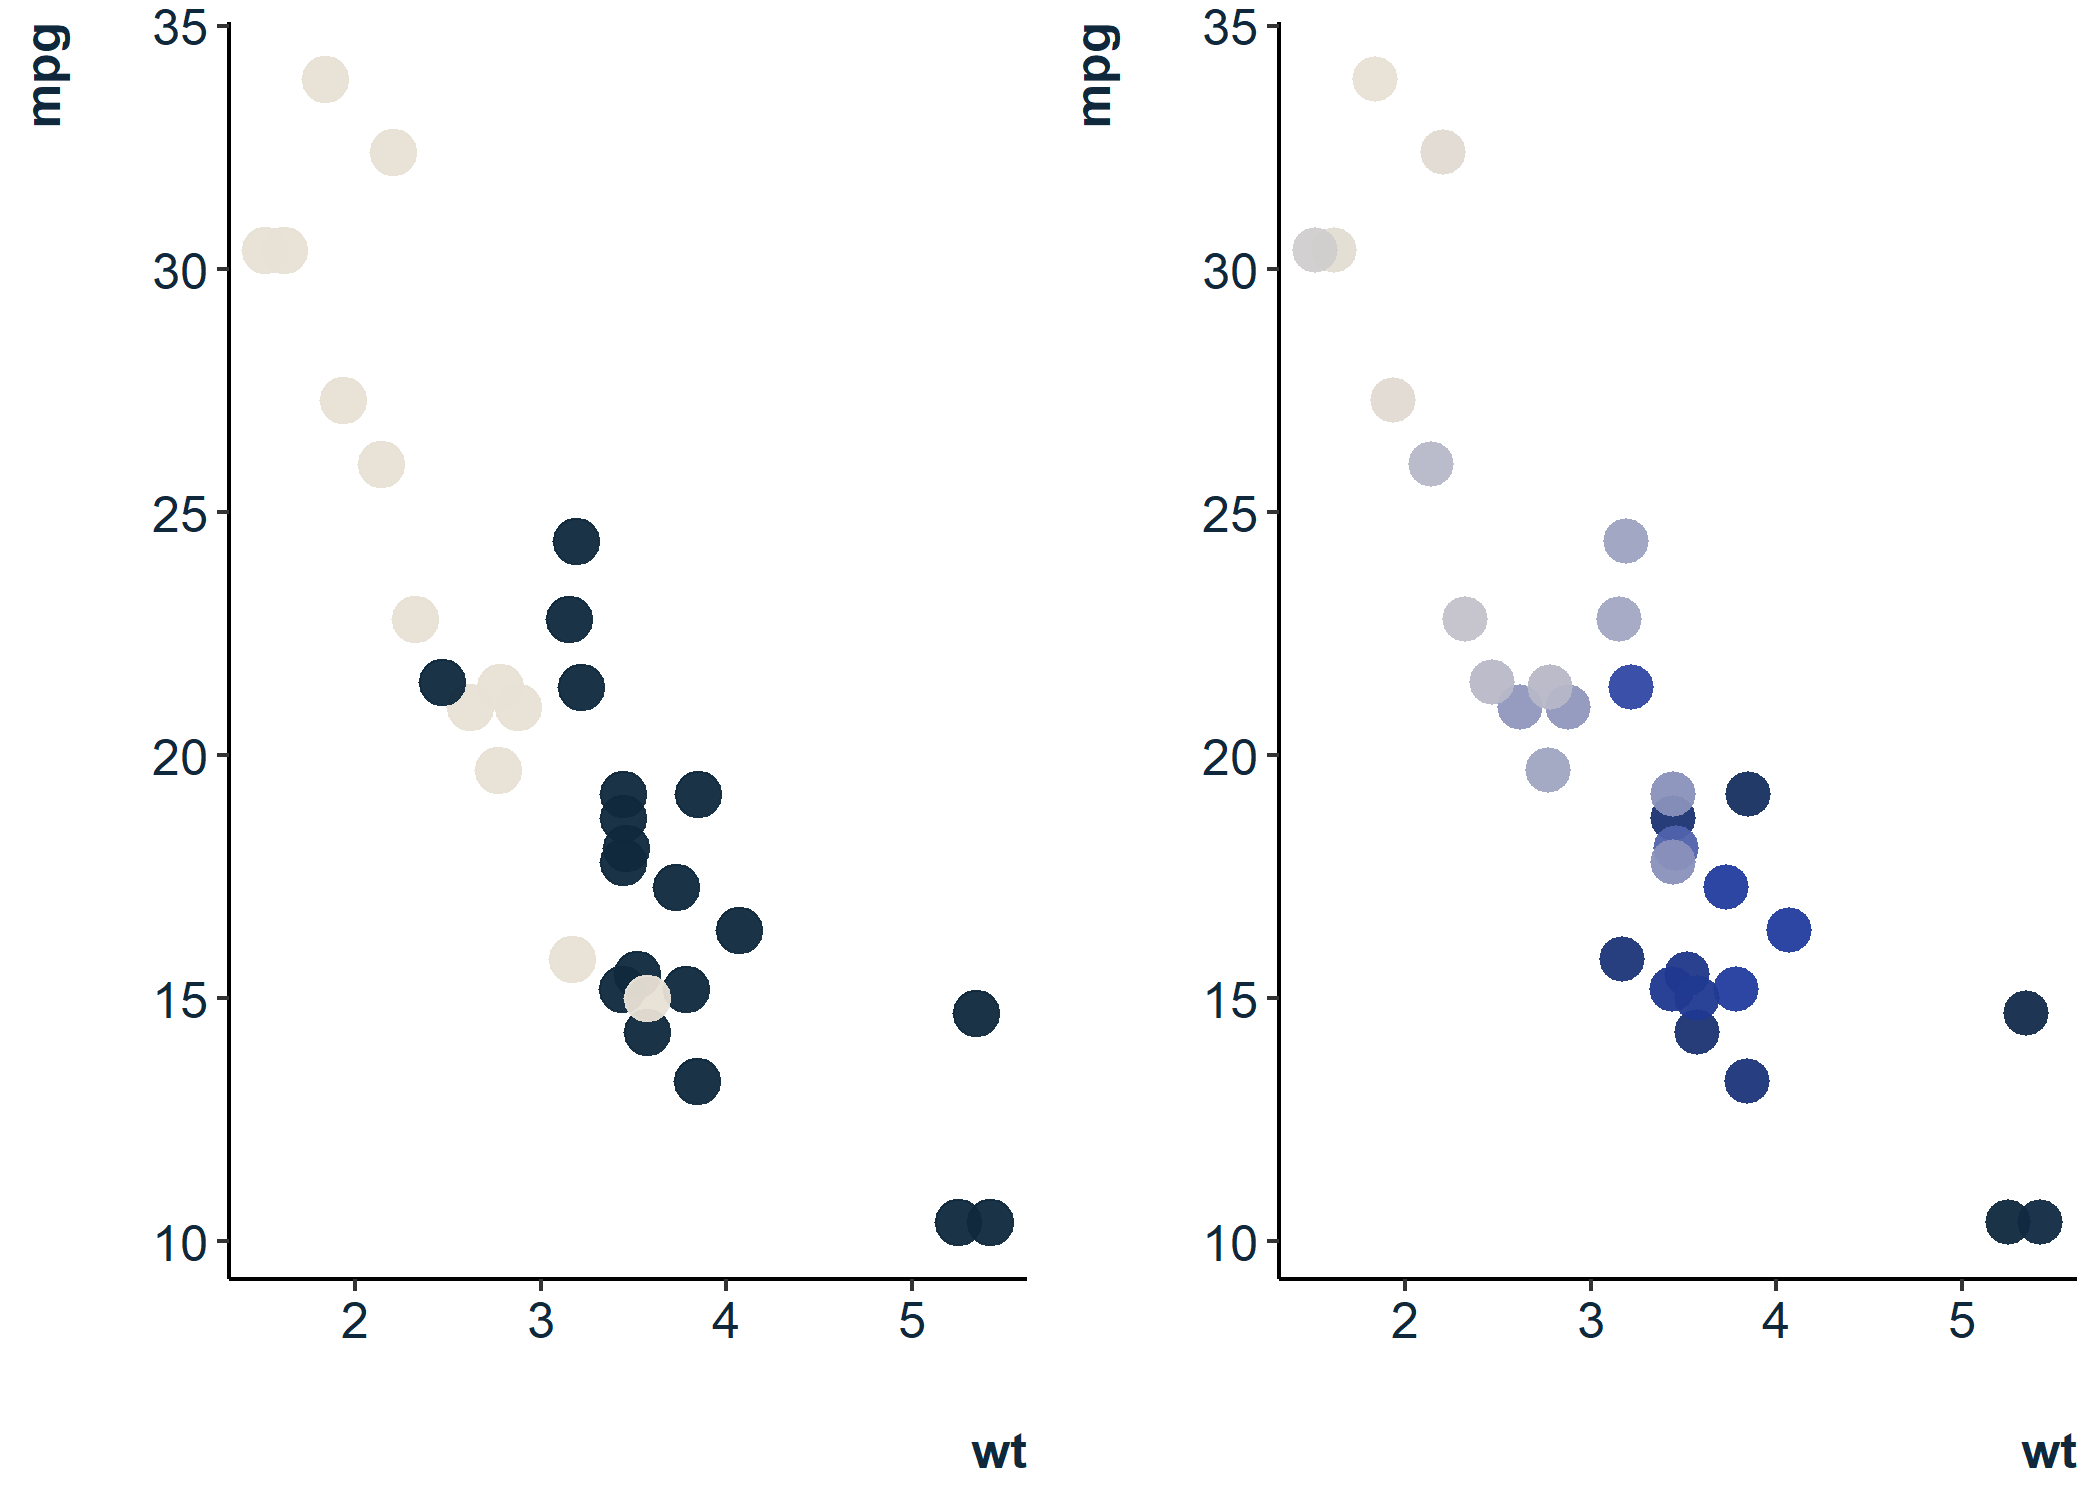
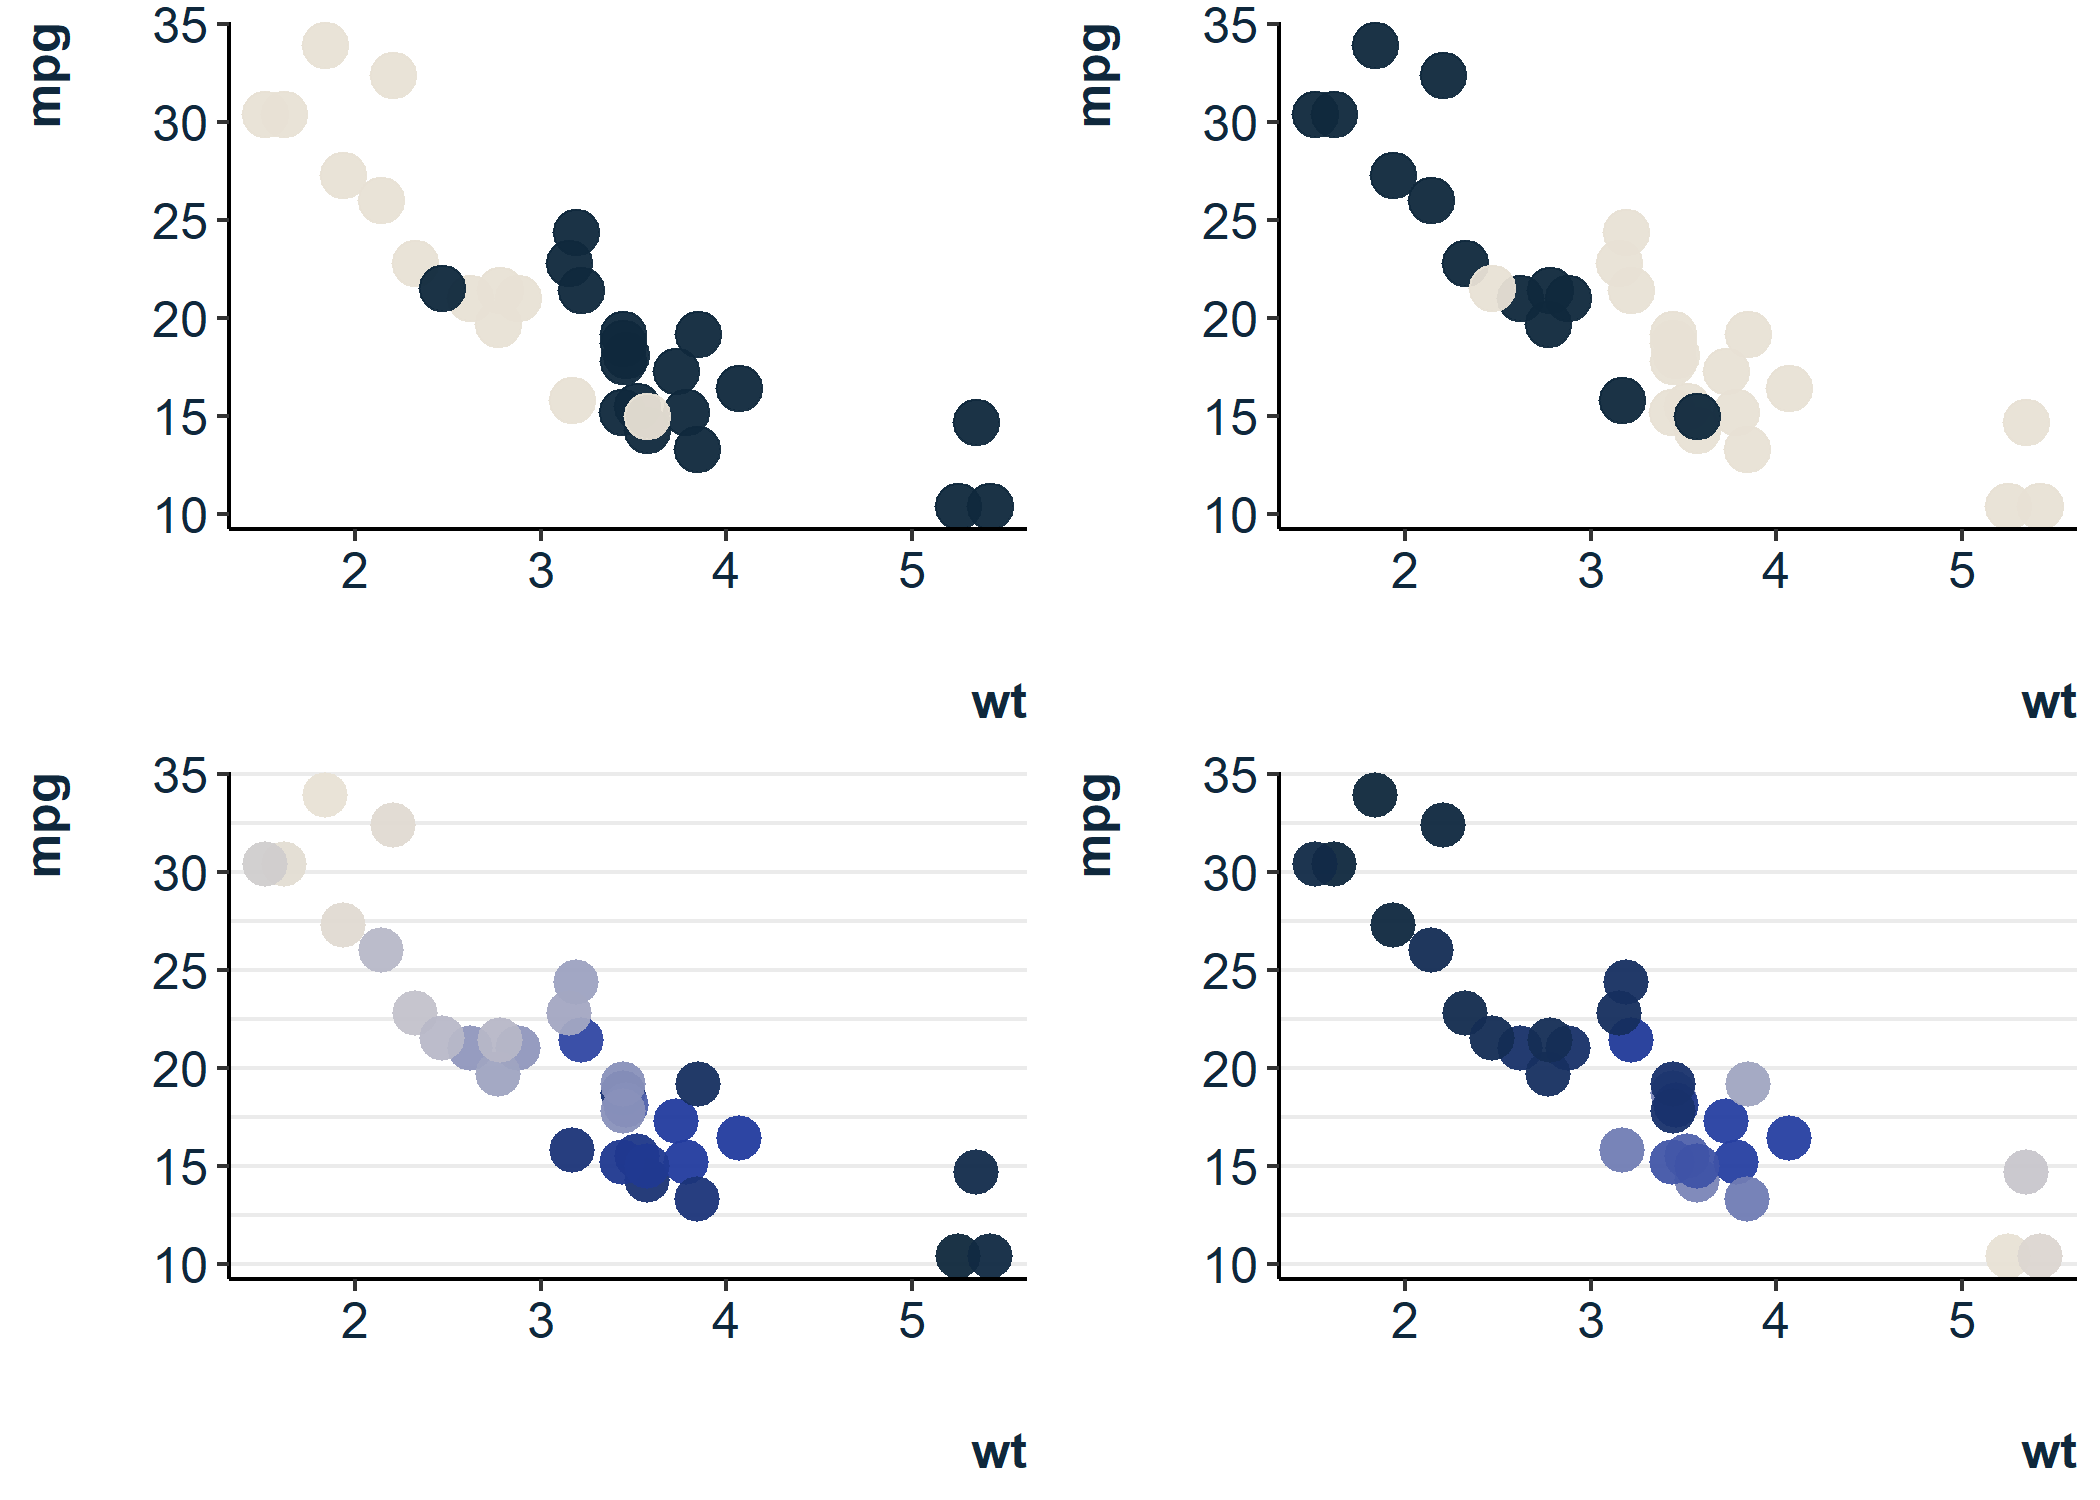
update README

diff --git a/README.md b/README.md
@@ -7,13 +7,19 @@
 
 <!-- badges: end -->
 
-The goal of repinion is to provide Epinion employees with `ggplot2`
+The goal of `repinion` is to provide Epinion employees with `ggplot2`
 functionality that quickly and easily makes your graphs compliant with
 the Corporate Visual Identity (CVI).
 
 ## Quick example
 
-This is a basic example which shows you how to solve a common problem:
+`repinion` has two main functionalities:
+
+1.  a tailor-made `ggplot2` theme
+2.  a set of custom-made color palettes for both discrete and continuous
+    variables
+
+A quick example demonstrates the basic functionality:
 
 ``` r
 library(repinion)
@@ -28,7 +34,7 @@ ggplot(mtcars, aes(x = wt,
   color_epi_d()
 ```
 
-<img src="man/figures/README-example-1.png" width="75%" style="display: block; margin: auto;" />
+<img src="man/figures/README-example-1.png" width="85%" style="display: block; margin: auto;" />
 
 ## Installation
 
@@ -41,7 +47,7 @@ library(devtools)
 devtools::install_github("jvieroe/repinion")
 ```
 
-## An **Epinion** `ggplot()` theme
+## **Epinion** `ggplot()` theme(s)
 
 Use `epitheme_*()` to quickly apply a tailormode `ggplot` theme to your
 graphs and data visualizations. This makes them compliant with the
@@ -69,17 +75,22 @@ ggplot(mtcars, aes(x = wt,
                    gridlines = "both")
 ```
 
-<img src="man/figures/README-unnamed-chunk-2-1.png" width="75%" style="display: block; margin: auto;" />
+<img src="man/figures/README-unnamed-chunk-2-1.png" width="85%" style="display: block; margin: auto;" />
 
 Evidently, `epitheme_classic()` only impacts `ggplot2::theme()` elements
 and not the aesthetics of your actual plot. We can override `theme()`
 elements inherent to `repinion::epitheme_classic()` by specifying this
-**afterwards** in `theme(...)`.
+in `theme(...)` **afterwards**.
 
 `epitheme_classic()` only impacts `ggplot2::theme()` elements and not
 the aesthetics of your actual plot.
 
-## Executing the **Epinion** color palette
+## The **Epinion** color palette
+
+You can apply custom-made Epinion color palettes with `repinion` through
+different (more or less verbose) approaches
+
+### Using the **Epinion** color palette
 
 `repinion` provides easy access to the colors from the Epinion CVI:
 
@@ -98,82 +109,89 @@ getcols_epi("Epinion DarkBlue")
 #>        "#0F283C"
 ```
 
-We can use these to manually change our colors, either using the HEX
-codes provided by `getcols_epi()` or by pasting the names into the
-`base::getElement()` function:
+We can use these to manually change our colors by either (1) using the
+HEX codes provided by `getcols_epi()` directly or (2) by pasting the
+names into the `base::getElement()` function:
 
 ``` r
 library(gridExtra)
 
-p1 <-
-  ggplot(mtcars, aes(x = wt,
-                   y = mpg,
-                   color = factor(am))) +
-  geom_point(size = 5,
-             alpha = .95) +
+# use the HEX codes directly
+p1 <- ggplot(mtcars, aes(x = wt, y = mpg, color = factor(am))) +
+  geom_point(size = 5, alpha = .95) +
   epitheme_classic(legend = F) +
-  scale_color_manual(values = c("#0F283C",
-                                "#E8E1D5"))
+  scale_color_manual(values = c("#0F283C", "#E8E1D5"))
 
-p2 <-
-  ggplot(mtcars, aes(x = wt,
-                   y = mpg,
-                   color = factor(am))) +
-  geom_point(size = 5,
-             alpha = .95) +
+# use the color names
+p2 <- ggplot(mtcars, aes(x = wt, y = mpg, color = factor(am))) +
+  geom_point(size = 5, alpha = .95) +
   epitheme_classic(legend = F) +
   scale_color_manual(values = c(getElement(getcols_epi(), "Epinion DarkBlue"),
                                 getElement(getcols_epi(), "Epinion WarmSand")))
 
-
-grid.arrange(
-  p1, p2,
-  ncol = 2
-  ) ; rm(p1, p2)
+grid.arrange(p1, p2, ncol = 2) ; rm(p1, p2)
 ```
 
-<img src="man/figures/README-unnamed-chunk-4-1.png" width="75%" style="display: block; margin: auto;" />
+<img src="man/figures/README-unnamed-chunk-4-1.png" width="85%" style="display: block; margin: auto;" />
 
-## Applying the color palette directly
+### Applying the color palette directly
 
 `repinion` also allows you to apply the Epinion color palette in more
-verbose fashion by calling `color_epi_*` or `fill_epi_*`. This can be
-applied to both continuous and discrete variables:
+verbose fashion. This can be applied to both continuous and discrete
+variables and for both `aes(color =)` and `aes(fill =)`:
+
+**Discrete variables**
 
   - `color_epi_d`: to use with the `aes(color = x)`, where x is a
     `factor` or `character` variable
-  - `color_epi_c`: to use with the `aes(color = x)`, where x is a
-    `numeric` or `integer` variable
   - `fill_epi_d`: to use with the `aes(fill = x)`, where x is a `factor`
     or `character` variable
+
+**Continuous variables**
+
+  - `color_epi_c`: to use with the `aes(color = x)`, where x is a
+    `numeric` or `integer` variable
   - `fill_epi_c`: to use with the `aes(fill = x)`, where x is a
     `numeric` or `integer` variable
 
-<!-- end list -->
+The main argument taken by all four functions is `reverse` which allows
+you to reverse the order of the color scale (default is `FALSE`)
 
 ``` r
-p1 <- ggplot(mtcars, aes(x = wt,
-                   y = mpg,
-                   color = factor(am))) +
-  geom_point(size = 5,
-             alpha = .95) +
+p1 <- ggplot(mtcars, aes(x = wt, y = mpg, color = factor(am))) +
+  geom_point(size = 5, alpha = .95) +
   epitheme_classic(legend = F) +
   color_epi_d()
 
-p2 <- ggplot(mtcars, aes(x = wt,
-                   y = mpg,
-                   fill = disp)) +
-  geom_point(size = 5,
-             shape = 21,
-             color = "NA",
-             alpha = .95) +
+p2 <- ggplot(mtcars, aes(x = wt, y = mpg, color = factor(am))) +
+  geom_point(size = 5, alpha = .95) +
   epitheme_classic(legend = F) +
+  color_epi_d(reverse = T)
+
+p3 <- ggplot(mtcars, aes(x = wt, y = mpg, fill = disp)) +
+  geom_point(size = 5, shape = 21, color = "NA", alpha = .95) +
+  epitheme_classic(legend = F, gridlines = "y") +
   fill_epi_c()
 
-grid.arrange(
-  p1, p2,
-  ncol = 2
-  ) ; rm(p1, p2)
+p4 <- ggplot(mtcars, aes(x = wt, y = mpg, fill = disp)) +
+  geom_point(size = 5, shape = 21, color = "NA", alpha = .95) +
+  epitheme_classic(legend = F, gridlines = "y") +
+  fill_epi_c(reverse = T)
+
+grid.arrange(p1, p2, p3, p4, ncol = 2) ; rm(p1, p2)
 ```
 
-<img src="man/figures/README-unnamed-chunk-5-1.png" width="75%" style="display: block; margin: auto;" />
+<img src="man/figures/README-unnamed-chunk-5-1.png" width="85%" style="display: block; margin: auto;" />
+
+#### Additional options: `*_epi_d()`
+
+When mapping `color_epi_d()` or `fill_epi_d()` to a variable with **only
+two levels**, you can manually choose colors with the `primary` and
+`secondary` arguments
+
+#### Additional options: `*_epi_c()`
+
+`repinion` contains six different continuous color palettes: `epiblue`,
+`epipurple`, `epigreen`, `epigold`, `epiredblue`, and `epidarkblue`. You
+choose between these with the `palette` option in `color_epi_c()` and
+`fill_epi_c()`
